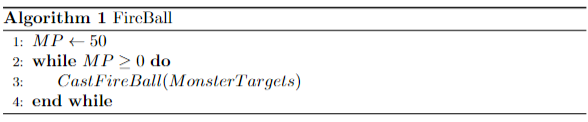
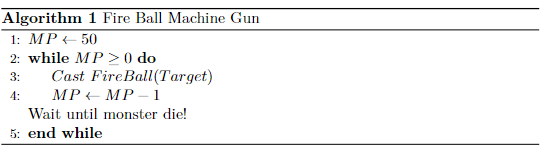
batch rebuild

Changed region(s): [[0.0, 0.0492, 1.0, 0.959]]

diff --git a/note/LaTexPseudoCode/index.html b/note/LaTexPseudoCode/index.html
@@ -181,7 +181,7 @@ if (!doNotTrack) {
 <h3 id="基本知識">基本知識</h3>
 <p>一節咒文的構成有固定格式，必須由 <code>\begin{algorithmic}[l]</code> 的詠唱來開始魔法陣的繪製，這邊的參數 <code>[l]</code> ，會決定每 <code>l</code> 行標示一次行號，增加你的魔法陣可讀性。完成咒文本體後，加上 <code>\end{algorithmic}</code> 象徵魔法的終焉。如果用錯了，就發動不了。<br>
 如果希望你的咒文有行號，加上 <code>\State</code> 符文，<br>
-反之則使用無垢之符文 <code>\Statex</code> 創造空白。<br>
+反之則使用<em>無垢之符文</em> <code>\Statex</code> 創造空白。<br>
 我們先來寫一段：</p>
 <div class="highlight"><div class="chroma">
 <table class="lntable"><tr><td class="lntd">
@@ -222,7 +222,7 @@ if (!doNotTrack) {
 	</a>
 	
 </figure></p>
-<p>不過這樣好像少了什麼&hellip;沒錯，帥氣的名字！<br>
+<p>不過這樣好像少了什麼&hellip;沒錯，<strong>帥氣的名字</strong>！<br>
 這時便是使用 <code>algorithm</code> 咒文的時刻：</p>
 <div class="highlight"><div class="chroma">
 <table class="lntable"><tr><td class="lntd">
@@ -238,16 +238,18 @@ if (!doNotTrack) {
 </span><span class="lnt">10
 </span><span class="lnt">11
 </span><span class="lnt">12
+</span><span class="lnt">13
 </span></code></pre></td>
 <td class="lntd">
 <pre tabindex="0" class="chroma"><code class="language-LaTeX" data-lang="LaTeX"><span class="k">\begin</span><span class="nb">{</span>algorithm<span class="nb">}</span>
-<span class="k">\caption</span><span class="nb">{</span>FireBall<span class="nb">}</span><span class="k">\label</span><span class="nb">{</span>fireball<span class="nb">}</span> <span class="c">% \caption{演算法標題}
-</span><span class="c"></span><span class="k">\begin</span><span class="nb">{</span>algorithmic<span class="nb">}</span>[1] <span class="c">% 後面接[1]會產生行號
-</span><span class="c"></span>
-<span class="k">\State</span> <span class="s">$</span><span class="nb">MP </span><span class="nv">\gets</span><span class="nb"> </span><span class="m">50</span><span class="s">$</span>
+<span class="k">\caption</span><span class="nb">{</span>Fire Ball Machine Gun<span class="nb">}</span><span class="k">\label</span><span class="nb">{</span>fireball<span class="nb">}</span> <span class="c">% \caption{演算法標題}
+</span><span class="c"></span><span class="k">\begin</span><span class="nb">{</span>algorithmic<span class="nb">}</span>[1] 
 
+<span class="k">\State</span> <span class="s">$</span><span class="nb">MP </span><span class="nv">\gets</span><span class="nb"> </span><span class="m">50</span><span class="s">$</span>
 <span class="k">\While</span><span class="nb">{</span><span class="s">$</span><span class="nb">MP </span><span class="nv">\ge</span><span class="nb"> </span><span class="m">0</span><span class="s">$</span><span class="nb">}</span>
-    <span class="k">\State</span> <span class="s">$</span><span class="nb">Cast FireBall</span><span class="o">(</span><span class="nb">MonsterTargets</span><span class="o">)</span><span class="s">$</span>
+    <span class="k">\State</span> <span class="s">$</span><span class="nb">Cast</span><span class="nv">\ </span><span class="nb"> FireBall</span><span class="o">(</span><span class="nb">Target</span><span class="o">)</span><span class="s">$</span>
+    <span class="k">\State</span> <span class="s">$</span><span class="nb">MP </span><span class="nv">\gets</span><span class="nb"> MP</span><span class="o">-</span><span class="m">1</span><span class="s">$</span>
+    <span class="k">\Statex</span> Wait until monster die!~
 <span class="k">\EndWhile</span>
 
 <span class="k">\end</span><span class="nb">{</span>algorithmic<span class="nb">}</span>
